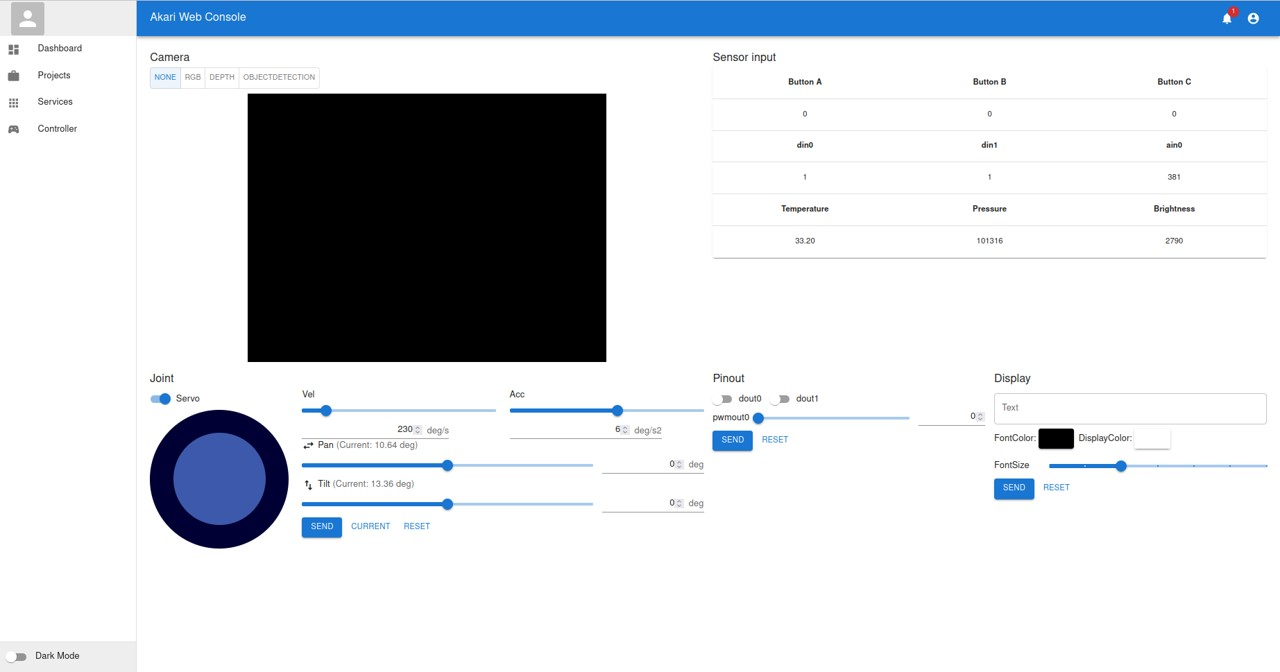
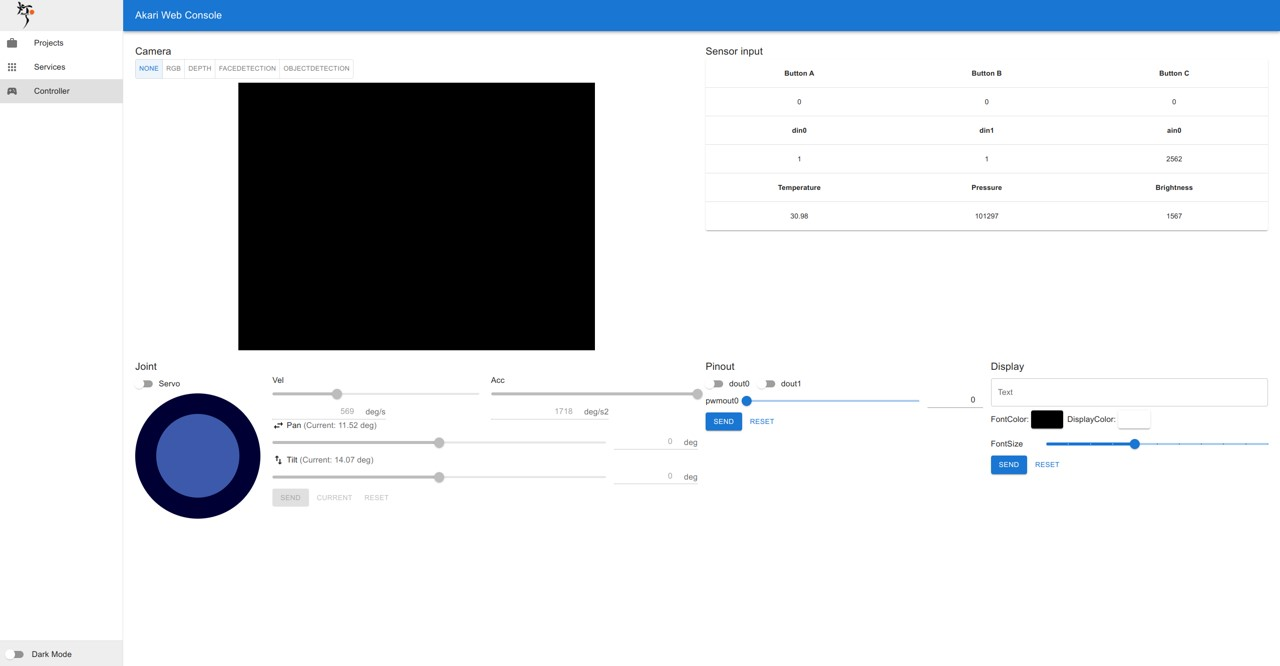
Update controller camera ui

diff --git a/source/tutorial_web/controller.rst b/source/tutorial_web/controller.rst
@@ -65,15 +65,23 @@ Camera
 | 下記の3種類のボタンを押すことでカメラウインドウの映像が切り替わります。
 
 - NONE
+
   ストリーミングを停止します。
 
 - RGB
+
   RGBカメラの画像をストリーミングします。
 
 - DEPTH
+
   ステレオカメラによるDepthの画像をストリーミングします。
 
+- FACEDETECTION
+
+  顔認識の結果をオーバーレイしたRGB画像をストリーミングします。
+
 - OBJECTDETECTION
+
   mobilenetによる物体認識の結果をオーバーレイしたRGB画像をストリーミングします。
 
 Sensor input
